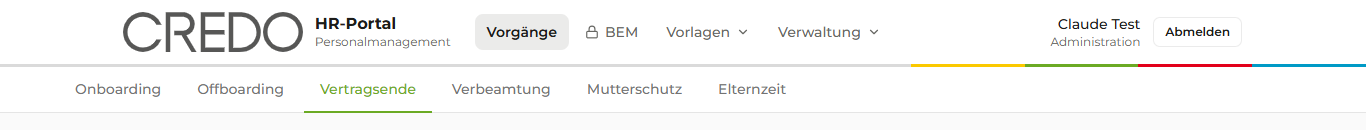
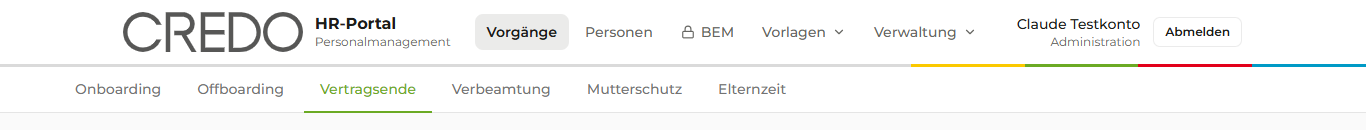
fix(ux): Abnahme nach dem Merge von main – Ueberschriften der Seite Personen, Logbuch, Stolpersteine unter Windows
- Seite „Personen“ (S0): nach dem Seitentitel als h1 folgte h3. „Zu prüfen“
  ist jetzt h2, die Gruppentitel in zu-pruefen.tsx h3; Klassen unveraendert.
- scripts/ux-abnahme-u1.js erwartet „Personen“ im Kopf der HR-Rollen; die
  vier Bilder u1-kopf-*.png sind neu erzeugt und zeigen den Punkt.
- Abnahme auf einer eigenen lokalen Datenbank: Pilot 213 Pruefungen, Kopf 26
  Pruefungen in Ordnung (Logbuch, Abschnitt 7, 19.10.2026).
- Logbuch: Einstieg 0.0 mit Stand 19.10.2026, Merge 8f4f064 in der Tabelle.
- CLAUDE.md: laufende Arbeit UX-Umbau und Navigation mit „Personen“.
- lokale-umgebung.md: CRLF-Arbeitskopie geprueft, openssl unter Git Bash
  endet auf CRLF, seed-check.js braucht die geladene .env, puppeteer-core
  fuer die Abnahme-Skripte.

npm run pruefen: 271 Suiten, 8619 Tests gruen.

Changed region(s): [[0.4305, 0.1846, 0.7072, 0.3077], [0.7379, 0.1231, 0.8609, 0.2462]]

diff --git a/scripts/ux-abnahme-u1.js b/scripts/ux-abnahme-u1.js
@@ -95,9 +95,9 @@ async function anmeldenUeberFormular(seite) {
   try {
     // ---------- 1. Je Rolle
     const SOLL = {
-      SUPER_ADMIN: { punkte: ["Vorgänge", "BEM", "Vorlagen", "Verwaltung"], rolle: "Administration", logo: "/vorgaenge", ort: "/vorgaenge/onboarding" },
-      HR_LEITUNG: { punkte: ["Vorgänge", "BEM", "Vorlagen", "Verwaltung"], rolle: "HR-Leitung", logo: "/vorgaenge", ort: "/vorgaenge/onboarding" },
-      HR_SACHBEARBEITER: { punkte: ["Vorgänge", "BEM", "Vorlagen"], rolle: "HR-Sachbearbeitung", logo: "/vorgaenge", ort: "/vorgaenge/onboarding" },
+      SUPER_ADMIN: { punkte: ["Vorgänge", "Personen", "BEM", "Vorlagen", "Verwaltung"], rolle: "Administration", logo: "/vorgaenge", ort: "/vorgaenge/onboarding" },
+      HR_LEITUNG: { punkte: ["Vorgänge", "Personen", "BEM", "Vorlagen", "Verwaltung"], rolle: "HR-Leitung", logo: "/vorgaenge", ort: "/vorgaenge/onboarding" },
+      HR_SACHBEARBEITER: { punkte: ["Vorgänge", "Personen", "BEM", "Vorlagen"], rolle: "HR-Sachbearbeitung", logo: "/vorgaenge", ort: "/vorgaenge/onboarding" },
       EINRICHTUNGSLEITUNG: { punkte: ["Vorgänge", "BEM"], rolle: "Einrichtungsleitung", logo: "/vorgaenge", ort: "/vorgaenge/onboarding" },
       VORGESETZTER: { punkte: ["Vorgänge", "BEM"], rolle: "Führungskraft", logo: "/vorgaenge", ort: "/vorgaenge/onboarding" },
       BEM_BEAUFTRAGTER: { punkte: ["BEM"], rolle: "BEM-Beauftragte:r", logo: "/bem", ort: "/bem" },

diff --git a/src/app/(portal)/personen/personen-content.tsx b/src/app/(portal)/personen/personen-content.tsx
@@ -242,9 +242,9 @@ export function PersonenContent({ user }: { user: User }) {
 
         {/* Zu prüfen */}
         <section className="mb-6 rounded-lg border border-border bg-card p-4" aria-labelledby="zu-pruefen">
-          <h3 id="zu-pruefen" className="mb-2 text-sm font-semibold text-foreground">
+          <h2 id="zu-pruefen" className="mb-2 text-sm font-semibold text-foreground">
             Zu prüfen
-          </h3>
+          </h2>
           {pruefung ? (
             <ZuPruefen pruefung={pruefung} />
           ) : pruefungFehler ? (

diff --git a/src/components/personen/zu-pruefen.tsx b/src/components/personen/zu-pruefen.tsx
@@ -70,7 +70,7 @@ export function Hinweiszeile({ pruefung }: { pruefung: PersonalstammPruefung }) 
 function Gruppe({ titel, children }: { titel: string; children: ReactNode }) {
   return (
     <div className="mt-4">
-      <h4 className="text-xs font-semibold uppercase tracking-wider text-muted-foreground">{titel}</h4>
+      <h3 className="text-xs font-semibold uppercase tracking-wider text-muted-foreground">{titel}</h3>
       <ul className="mt-2 divide-y divide-border rounded-lg border border-border">{children}</ul>
     </div>
   );

diff --git a/CLAUDE.md b/CLAUDE.md
@@ -10,7 +10,7 @@ Stand 18.10.2026 — mit jeder Übergabe nachführen.
 
 - **Self-Service (Mitarbeiterportal), Paket S0 „Personalstamm aus DokuBit“:** mit PR #5 in `main`, noch nicht deployt. Einstieg: `docs/historie/uebergabe-selfservice-s0-2026-10-17.md`, Abschnitt „Stand … — hier weitermachen“ (nächste Schritte in Reihenfolge, offene Entscheidungen).
 - **Deploy-Ablaufplan:** `docs/historie/deploy-selfservice-s0-2026-10.md` (Etappe 1 ruhend, Etappe 2 erst nach den Freigaben F1–F11). Er hängt am Code-Stand `0e1d8de` (Kachel-Fix der Verbeamtung, mit PR #6 am 18.10.2026 in `main`, Merge `82b58ce`). Bis Etappe 1 kommt danach nur noch Doku: `docs/`, dazu `CLAUDE.md` und `README.md` (beide nie im Image, `.dockerignore` schließt `*.md` aus). Abschnitt 3.2 des Plans prüft das auf dem Server. Was danach dauerhaft für jeden Deploy gilt: Abschnitt „Docker / Deployment“, „Feste Anker für Deploy und Rückfall“.
-- **UX-Umbau:** Zweig `ux-umbau` (letzter Commit 16.10.2026), nicht in `main`, Vorbedingung für S2 und S3 (Übergabe S0, Abschnitt 7). Einstieg nur auf dem Zweig: `docs/module/ux-ui/projekt-ux-umbau.md`. Die „Bausteine“ und „Muster des UX-Umbaus“, auf die diese Datei verweist, gibt es auf `main` noch nicht. Vor seinem Deploy `main` hineinmergen („Feste Anker für Deploy und Rückfall“).
+- **UX-Umbau:** Zweig `ux-umbau`, nicht in `main`, Vorbedingung für S2 und S3 (Übergabe S0, Abschnitt 7). Einstieg nur auf dem Zweig: `docs/module/ux-ui/projekt-ux-umbau.md`, Abschnitt 0.0. `main` ist seit dem 19.10.2026 hineingemergt (`8f4f064`, mit S0 und `0e1d8de`), Abnahme grün. Ziel: Pull Request samt Ablaufplan für den Deploy von U0 + U1 + Pilot + Mailtext — gemergt und deployt erst NACH Etappe 1 von S0 („Feste Anker für Deploy und Rückfall“). Die „Bausteine“ und „Muster des UX-Umbaus“ gibt es auf `main` erst mit diesem Merge.
 - **Übersicht aller Dokumente:** `docs/README.md`.
 - **Neuer Rechner:** `docs/entwicklung/lokale-umgebung.md` (ohne Werte; Geheimnisse und Passwörter erzeugt man auf dem Rechner selbst). Was es außerhalb von Git gibt: Übergabe S0, Abschnitt 8.6.
 
@@ -632,7 +632,7 @@ Das Portal bekommt Modul für Modul eine einheitliche Oberfläche. Stand, Protok
 - **Hell und Montserrat, überall gleich (E5, E7).** `color-scheme: only light` auf `:root` — `light` hält nur die Fensterleiste hell (Chrome/Edge ab 125), erst `only` verbietet das erzwungene Abdunkeln ganzer Seiten; dunkelt ein Browser auch bei heller Systemeinstellung zwangsweise ab, kann eine Seite das nicht abwenden. `--font-heading` ist Montserrat (ITC Avant Garde stand im Token, wurde aber nie mitgeliefert und von keinem Element benutzt — zu sehen war sie nie). Kein dunkler Modus.
 - **Anrede nach dem Ort des Textes (E6).** „du“ nur auf Seiten hinter der Anmeldung (`src/app/(portal)/`, ohne die Anmeldeseite); überall sonst „Sie“ — alle Link-Seiten, **alle** E-Mails (auch die an HR), PDFs, Briefe. Portal-Texte möglichst ohne Anrede („Vorgang stornieren?“). Bestehende Portal-Texte siezen noch; sie werden je Modul mit U4/U7 umgestellt, nicht vorher einzeln.
 - **Adressen (E4, U1): nur über `src/lib/adressen.ts`.** `/vorgaenge` (leitet auf die Onboarding-Liste), `/vorgaenge/<modul>` (Liste), `/vorgaenge/<modul>/<uuid>` (Vorgang), `/bem`, `/bem/<uuid>`, `/bem/statistik`; Modulnamen `onboarding`, `offboarding`, `vertragsende`, `verbeamtung`, `mutterschutz`, `elternzeit` — dauerhaft. Jeder Verweis (`href`, `router.push`, `redirect`, `portalLink` einer Mail) nimmt `vorgangPfad(modul, id, reiter?)`, `vorgangslistePfad(modul?)`, `bemPfad(id?)`; ein Wächter-Test (`adressen.test.ts`) lässt außerhalb dieser Datei keine Zeichenkette `/dashboard` zu (erlaubt: die Schnittstelle `/api/dashboard/…` und der Ordner `(portal)/dashboard/`). Alte Adressen übersetzt `alteAdresse(pfad, suche)`; die Middleware leitet damit als ERSTES und ohne Sitzung mit 308 um (`?tab=<modul>` an der alten Liste wird zum Pfad, alles andere hinter dem Fragezeichen bleibt). Pfade immer über `unter(pfad, wurzel)` vergleichen, nie mit `startsWith` allein (`/bem-vorlagen` beginnt mit `/bem`); `/bem/einwilligung/…` ist die ÖFFENTLICHE Einwilligungsseite und gehört nicht zum Portal (`istBemPortalPfad`). Die Adressen der Schnittstellen bleiben (englische Modulnamen, `/api/vorgaenge/contract-end/…`). **Dateien der Module liegen weiter unter `src/app/(portal)/dashboard/`** (ziehen mit U4 um); die Seiten selbst sind dünne `page.tsx` unter `(portal)/vorgaenge/<modul>/[id]/` und `(portal)/bem/` — unter `dashboard/` darf keine `page.tsx` mehr entstehen (Wächter), ein neues Modul braucht einen Eintrag in `VORGANGS_MODULE` und seinen Ordner.
-- **Kopf und Navigation (E3, U1): `src/lib/navigation.ts` + `src/components/rahmen/portal-kopf.tsx`.** Der Kopf hängt EINMAL in `src/app/(portal)/layout.tsx`; keine Seite bindet ihn ein (auch keine neue). Punkte, Adressen und Rollen stehen in der Tabelle `NAVIGATION` (heute Vorgänge · BEM · Vorlagen · Verwaltung, höchstens sechs; Start, Aufgaben, Personen kommen mit ihren Paketen). Der Kopf zeigt NUR, was die Rolle öffnen kann — `navigation.test.ts` ruft die Middleware für jeden sichtbaren Punkt jeder Rolle auf; wer in `NAVIGATION` eine Rolle ergänzt, ändert keine Berechtigung („Formulare“ sieht die Sachbearbeitung deshalb nicht, U1-F3). Genau EIN Punkt ist aktiv (`aktiverPunkt`: längster passender Adressanfang über `unter`). Rollennamen nur aus `rollenName()` (`ROLLEN_NAMEN`, client-sicher — nicht aus `permissions.ts`, das die Datenbank mitzieht); es gibt keine zweite Tabelle (Wächter-Test), auch die Benutzerverwaltung liest von dort. Der Kopf trägt keine `h1`: Jede Seite braucht ihre eigene. Das Logo führt auf `startAdresse(rolle)`. „Abmelden“ geht erst zur Anmeldeseite, wenn der Server die Sitzung beendet hat (sonst Fehlermeldung, Seite bleibt). Seiten hinter der Anmeldung, die den Kopf bewusst NICHT zeigen, liegen in `src/app/(portal-ohne-kopf)/` (heute nur die Fragebogen-Vorschau `/vorlagen/vorschau/<id>`). **Die Anmeldeseite liegt in `src/app/(anmeldung)/login/`**, nicht in `(portal)` — ein Layout zeichnet Next.js beim Seitenwechsel nicht neu; deshalb laden An- und Abmelden die Seite ganz neu (`seiteNeuLaden`, `src/lib/seite-laden.ts`), nie `router.push`. Die Seiten tragen bis zu ihrem Umbau `min-h-screen`; `.portal-inhalt .min-h-screen` in `globals.css` zieht die feste Höhe des Kopfs ab (`h-16` + 3 px Linie — wer die Höhe ändert, ändert beide Stellen).
+- **Kopf und Navigation (E3, U1): `src/lib/navigation.ts` + `src/components/rahmen/portal-kopf.tsx`.** Der Kopf hängt EINMAL in `src/app/(portal)/layout.tsx`; keine Seite bindet ihn ein (auch keine neue). Punkte, Adressen und Rollen stehen in der Tabelle `NAVIGATION` (heute Vorgänge · Personen · BEM · Vorlagen · Verwaltung, höchstens sechs; „Personen“ seit dem Merge von Self-Service S0, nur HR-Rollen; Start und Aufgaben kommen mit ihren Paketen). Der Kopf zeigt NUR, was die Rolle öffnen kann — `navigation.test.ts` ruft die Middleware für jeden sichtbaren Punkt jeder Rolle auf; wer in `NAVIGATION` eine Rolle ergänzt, ändert keine Berechtigung („Formulare“ sieht die Sachbearbeitung deshalb nicht, U1-F3). Genau EIN Punkt ist aktiv (`aktiverPunkt`: längster passender Adressanfang über `unter`). Rollennamen nur aus `rollenName()` (`ROLLEN_NAMEN`, client-sicher — nicht aus `permissions.ts`, das die Datenbank mitzieht); es gibt keine zweite Tabelle (Wächter-Test), auch die Benutzerverwaltung liest von dort. Der Kopf trägt keine `h1`: Jede Seite braucht ihre eigene. Das Logo führt auf `startAdresse(rolle)`. „Abmelden“ geht erst zur Anmeldeseite, wenn der Server die Sitzung beendet hat (sonst Fehlermeldung, Seite bleibt). Seiten hinter der Anmeldung, die den Kopf bewusst NICHT zeigen, liegen in `src/app/(portal-ohne-kopf)/` (heute nur die Fragebogen-Vorschau `/vorlagen/vorschau/<id>`). **Die Anmeldeseite liegt in `src/app/(anmeldung)/login/`**, nicht in `(portal)` — ein Layout zeichnet Next.js beim Seitenwechsel nicht neu; deshalb laden An- und Abmelden die Seite ganz neu (`seiteNeuLaden`, `src/lib/seite-laden.ts`), nie `router.push`. Die Seiten tragen bis zu ihrem Umbau `min-h-screen`; `.portal-inhalt .min-h-screen` in `globals.css` zieht die feste Höhe des Kopfs ab (`h-16` + 3 px Linie — wer die Höhe ändert, ändert beide Stellen).
 - **Prozess-Stand (Pilot Vertragsende, Tag 1): `src/lib/prozess/`.** `prozess-stand.ts` ist das Datenmodell der Prozessleiste (rein, ohne Uhr): Schritte mit `erledigt`/`aktiv`/`kommend`/`uebersprungen`, „Jetzt dran“ (Satz, bei wem, Unterzeile, Frist, Dringlichkeit), `ende`. Je Modul ein Adapter (`vertragsende.ts`), der aus dem Vorgang den Stand baut und **Schlüssel** von Handlungen liefert, keine Knöpfe – die Seite macht daraus Knöpfe, und nur mit Bearbeitungsrecht. Regeln des Adapters: Ein vergangener Schritt ist nur mit Beleg (Zeitstempel, verknüpftes Offboarding) „erledigt“, sonst „übersprungen“; keine Handlung steht zugleich in „Jetzt dran“ und im Menü; Tage zählen in Berliner Kalendertagen (am Tag des Vertragsendes „heute“ und kritisch – die Ampel `getContractEndCategory` meldet an diesem Tag schon „AUSSERHALB“); der Schritt „Vertrag“ hängt an `contractSignedReturnedAt`, nicht am Status `VERTRAG_ERSTELLT` (den setzt kein Code). **Wer dran ist, sagen Pille, aktiver Schritt und „Jetzt dran“ aus EINER Lage (`lageVon`), nie jeder für sich aus dem Status:** Der Status „Anfrage beim Vorgesetzten“ sagt nicht, ob die Führungskraft antworten kann – ging nie eine Anfrage hinaus oder ist ihr Link abgelaufen (fehlendes Ablaufdatum zählt als abgelaufen, wie in den Routen und im Erinnerungslauf), ist HR dran, der Schritt „Anfrage“ wieder aktiv und die Pille heißt „Anfrage offen“ bzw. „Link abgelaufen“ statt „Wartet auf Führungskraft“ (`vertragsendePille`, nicht der Katalog allein). Ging die Mail der Anfrage nicht hinaus (Status „Anfrage beim Vorgesetzten“ bzw. Alt „Entscheidung Übernahme“ MIT Adresse und erzeugtem Link – `supervisorTokenExpiresAt` gesetzt –, aber ohne `supervisorLinkSentAt`; so hinterlässt es `/supervisor-link` seit 10/2026, siehe `src/lib/contract-end-versand.ts`), ist das die Lage „nicht zugestellt“: HR ist dran, Pille „Anfrage nicht zugestellt“ (`info`, `VERTRAGSENDE_PILLE_NICHT_ZUGESTELLT`), „Jetzt dran“ „Anfrage wurde nicht zugestellt – erneut senden“ mit `anfrage-senden` (keine Rückfrage: einen gültigen Link hat die Führungskraft nicht), im Reiter Übersicht „Nicht zugestellt“ statt „Link gültig bis“ (`anfrageNichtZugestellt`, `ANFRAGE_NICHT_ZUGESTELLT_ZEILE`). Ohne Adresse oder ohne je erzeugten Link (Status und Adresse per Hand-PATCH – es wurde nie etwas versendet) bleibt es „Anfrage senden“; scheitert die ERSTE Anfrage, steht der Vorgang wieder auf „Angelegt“ und zeigt bewusst keinen eigenen Hinweis (die Route stellt den Stand davor wieder her, wie in der alten Ansicht). Ein Test hält das über alle Lagen: Ton `wait` genau dann, wenn die Führungskraft dran ist; der aktive Schritt liegt bei dem, der dran ist. **Was der Adapter anbietet, muss die Route annehmen:** Die Statuslisten der vier HR-Routen liegen in `src/lib/contract-end-status.ts` (`CONTRACT_END_UEBERGAENGE` für den PATCH, `CONTRACT_END_OFFBOARDING_AUS` für `/nicht-uebernehmen`, `CONTRACT_END_ANFRAGE_GESPERRT` für `/supervisor-link`, `CONTRACT_END_ANFRAGE_OFFEN` für `/reminder`) – die Routen und `prozess-vertragsende.test.ts` lesen DIESELBEN Listen; eine Statusliste gehört nie wieder in eine Routen-Datei. Der Test prüft jede angebotene Handlung in jeder Lage (auch solchen, die nur ein Handeingriff erzeugt: Offboarding an einem Vorgang im Status „Angelegt“) und rechnet jede Lage nur einmal (`PROBEN`). Was die Routen selbst tun, steht ausgeschrieben in ihren Tests (`contract-end-supervisor-link.test.ts`, `-nicht-uebernehmen.test.ts`, `-reminder-manual.test.ts`). Fachstatus → Text und Ton der Statuspille stehen als Katalog im Adapter (`VERTRAGSENDE_PILLE`: `wait` = wartet auf jemand anderen, `info` = HR ist dran); die Töne kommen als Typ aus dem Baustein (`StatusTon`), nicht aus einer zweiten Liste. `VertragsendeStand.supervisorTokenExpiresAt` ist Pflichtfeld – wer den Vorgang mit schmalerer Auswahl lädt (Listen), lädt es mit.
 - **Prozessleiste und Reiter (Pilot Vertragsende, Tag 2).** Beide stehen auf `/ui-muster` (eigene Muster-Dateien `prozessleiste-muster.tsx`, `reiter-muster.tsx`; die Lagen der Leiste kommen dort aus dem echten Vertragsende-Adapter mit festem `JETZT`). **`Prozessleiste`** (`prozessleiste.tsx`): zeichnet einen `ProzessStand`, kennt kein Modul und ruft nichts; `aktion`/`nebenAktion` bekommt sie als fertige Knöpfe (die Seite gibt sie nur mit Bearbeitungsrecht), gezeichnet werden sie nur MIT `jetztDran`. Schritte als `ol` mit ausdrücklichem `role="list"` (Tailwind nimmt die Listenzeichen, Safari/VoiceOver sagt die Liste sonst nicht an); der Punkt ist Zierde, jeder Zustand hat ein Wort für Screenreader (`SCHRITT_WORT`; in einem beendeten Ablauf „nicht erreicht“ statt „kommt noch“) und ist ohne Farbe erkennbar (Haken · Hof und fetter Titel · Nummer · gestrichelter Rand und durchgestrichener Titel). Der Rand des übersprungenen Punkts TRÄGT Bedeutung (`ink-2`, 3:1), der des kommenden ist Zierde (`ink-3`). Ein Schritt mit `reiter` ist nur mit `onReiter` ein Knopf. Dringlichkeit steht als `Statuspille` mit Wort („Kritisch“, „Frist naht“) neben der Frist; wer dran ist, über `BEI_NAME`, das Ende über `ENDE_NAME` (beide in `prozess-stand.ts` — der Baustein führt keine Namen). Unter 640 px: Punkte in einer Zeile, Titel/Unterzeile/anderer Weg `max-sm:sr-only` (nie `hidden`), darunter `schrittKurzform`. Kein `sticky` (P-F6). **`Reiter`/`ReiterInhalt`** (`reiter.tsx`, Radix Tabs — das Gegenstück zum `Segment`): gesteuert über `wert`/`onWechsel`, liest nichts aus der Adresse; ein unbekannter `wert` fällt auf den ersten Reiter; nur der Inhalt des gewählten Reiters steht im DOM (er lädt mit dem Wechsel, Eingaben darin gehen beim Wegwechseln verloren). Drei Dinge macht der Baustein ANDERS als Radix, jeweils mit Test: `onWechsel` läuft je Klick genau einmal (Radix meldet bei `mousedown` und beim `focus` danach — mit dem Reiter in der Adresse wären das zwei Navigationen); der Halt der Tab-Taste liegt immer auf dem GEWÄHLTEN Reiter (`tabIndex`, sonst schaltet Umschalt+Tab nach einem Wechsel von außen zurück); Bild-auf/Bild-ab rollen die Seite, statt zum ersten/letzten Reiter zu springen. Der Strich des gewählten Reiters ist ein echter Rand, die übrigen tragen gar keinen (Windows-Kontrastmodus); die Leiste rollt am Handy waagerecht und holt den gewählten Reiter in den sichtbaren Teil. Radix wählt bei `mousedown`, nicht bei `click` — Tests spielen die ganze Folge einer Maustaste.
 - **Hinweis und Textfeld (Pilot Vertragsende, Tag 3, vor dem Prototyp-Tag vorgezogen).** Beide stehen auf `/ui-muster` (`hinweis-muster.tsx`, `textfeld-muster.tsx`), Regeln in `ui-hinweis-textfeld.test.tsx`, Farben in `ui-kontrast.test.ts`. **`Hinweis`** (`hinweis.tsx`): ein Kasten für EINE Aussage über der Arbeit, `ton` `critical`/`wait`/`info` (kein `ok` — Erledigtes braucht keinen Kasten), `titel` ist Pflicht (leer → zeichnet nichts), `children` ein, zwei Sätze, höchstens ein Knopf (`aktion`). Jeder Ton hat ein eigenes Standardsymbol (Form, nicht nur Farbe; `symbol` ersetzt es), Emojis nie. Angesagt wird nur, was NACH dem Laden erscheint: `ansagen` macht einen `critical`-Hinweis zu `role="alert"`; sonst ist er ein Bereich mit Überschrift (`section` + `aria-labelledby`, Vorgabe `h2`, tiefer über `ebene`) — die Seite entscheidet das, der Baustein rät es nicht. Text in `ink`, nicht `ink-2` (auf `critical-soft` über dem Seitengrund nur 4,49:1); durchsichtiger Rand für den Kontrastmodus. **`Textfeld`** (`textfeld.tsx`): sichtbare Beschriftung ist Pflicht (nie nur ein Platzhalter), nur `text`/`email`/`tel`/`url` (Datum und Auswahl kommen mit ihrem ersten Aufrufer). `hilfe` und `fehler` hängen über `aria-describedby` am Feld (erst Hilfe, dann Fehler, dann eine eigene `aria-describedby` des Aufrufers); ein Fehler setzt `aria-invalid`, färbt den Rand `critical` und steht als Text darunter, ein leerer Fehler ist keiner. Den Fokus auf einen neuen Fehler legt der Dialog, nicht das Feld. Rand `ink-2` (3:1 für Bedienelemente; `hairline` wäre als Grenze nicht zu sehen), Platzhalter `ink-2`. `className` geht an die Hülle, alles andere (`id`, `value`, `ref`, `data-autofokus` …) an das Feld. **`Textverweis`** (`textverweis.tsx`, 07.10.2026): ein Verweis im laufenden Text (Satz, Dialog, schmale Zeile) — ein Verweis FÜHRT woandershin, ein Knopf HANDELT; intern (`href` mit genau einem führenden „/“) über `next/link`, sonst (`mailto:`, `https:`, `//host`) ein `<a>`; unterstrichen in `ink`, Fokusring der Bausteine, keine eigene Farbtabelle. Regeln in `ui-textverweis.test.tsx`. Ein Verweis, der wie ein Knopf aussehen soll, bleibt `<Button asChild><Link …/></Button>`.

diff --git a/docs/module/ux-ui/projekt-ux-umbau.md b/docs/module/ux-ui/projekt-ux-umbau.md
@@ -4,11 +4,22 @@
 Abweichungen vom Plan und ein Protokoll je Arbeitstag. Sie wird mit **jedem** Commit auf
 `ux-umbau` fortgeschrieben.
 
-Letzte Änderung: 15.10.2026 (Prototyp-Tag gelaufen, DSB einverstanden, `main` gemergt – **0.0 zuerst lesen**; davor am selben Tag: Mailtext im Protokoll mit zwei Durchsichten, Handbuch, DSB-Papier, siehe Abschnitt 7)
+Letzte Änderung: 19.10.2026 (`main` mit Self-Service S0 und Kachel-Fix gemergt, Abnahme grün – **0.0 zuerst lesen**; Protokoll Abschnitt 7)
 
-## 0. Übergabe (Stand 15.10.2026)
+## 0. Übergabe (Stand 19.10.2026)
 
-### 0.0 Hier anfangen (15.10.2026)
+### 0.0 Hier anfangen (19.10.2026)
+
+**Stand 19.10.2026:** `main` bis `5fc31bd` ist gemergt (`8f4f064`, mit Self-Service S0 und dem
+Kachel-Fix `0e1d8de`); Prüfung, Build, Pilot-Abnahme (213) und Kopf-Abnahme (26) sind grün
+(Protokoll Abschnitt 7, „19.10.2026“). **Ziel der Woche** (Projektverantwortlicher): fertig bis
+zum Pull Request samt eigenem Ablaufplan für den Deploy. **Reihenfolge: erst Etappe 1 von S0,
+dann dieser Deploy** — vorher nicht nach `main` mergen, sonst hält der S0-Ablaufplan in 3.2 an.
+Nächste Schritte: Ablaufplan für den Deploy von U0 + U1 + Pilot + Mailtext schreiben
+(Ausgangsstand = Server nach Etappe 1, Anker `a43aa25` und `0e1d8de`, Schema-Delta +1 Tabelle
+`email_log_texte`), gegenprüfen, pushen und den Pull Request öffnen (erst nach Freigabe).
+
+### 0.0a Stand 15.10.2026
 
 Die Abschnitte 0.1 bis 0.7 stammen vom 08./12.10.2026 und sind in Teilen überholt; was neuer
 ist, steht hier.
@@ -1942,6 +1953,44 @@ erscheinen: Ein Kommentar behauptete ungeprüft „die Verbeamtung hat keine Nic
 (entfernt), und `civil-service-detail.test.ts` sicherte vormittags `200` für Nicht-HR zu, also
 das Gegenteil der späteren Entscheidung (umgeschrieben; der Dateikopf erzählt beide Schritte).
 
+### 19.10.2026 – Merge von `main` (Self-Service S0, Kachel-Fix), Abnahme auf dem Windows-Rechner
+
+**Ziel des Projektverantwortlichen:** den Pilot diese Woche fertig machen bis zum Pull Request
+samt Ablaufplan; gemergt und deployt wird erst NACH Etappe 1 von S0 (Ablaufplan
+`docs/historie/deploy-selfservice-s0-2026-10.md`, Reihenfolge „erst S0, dann UX“). Bis Etappe 1
+darf auf `main` nur Doku landen (dort 3.2).
+
+**Neuer Klon.** Gearbeitet wird in `C:\Users\driesen.FES\Projekte\HR_Portal_CREDO` (außerhalb von
+OneDrive). Der Ordner `HR_Portal_CREDO-main` in OneDrive ist nur ein ZIP-Stand ohne `.git`.
+
+**Merge `8f4f064`** (`main` bis `5fc31bd`): drei Konflikte — `CLAUDE.md` (beide Zeilen der
+Befehle), `docs/README.md` (der Zweig hatte die Datei mit CRLF eingecheckt, deshalb Konflikt über
+die ganze Datei; aufgelöst als Fassung von `main` plus Abschnitt UX-Umbau und Zeile zu den
+Zugriffs-Korrekturen) und `src/components/portal-header.tsx` (bleibt gelöscht). Nachgezogen:
+„Personen“ in `NAVIGATION` (nur HR-Rollen, zwischen Vorgänge und BEM — Reihenfolge nach E3), die
+S0-Seite ohne `PortalHeader`, Titel als `h1`, Weiterleitung über `vorgangslistePfad()`. Ein Test
+von S0 (`personalstamm-n8n-stapel.test.ts`) suchte „```js\n“ und scheiterte an der
+CRLF-Arbeitskopie unter Windows — er normalisiert jetzt. `npm run pruefen` 271 Suiten / 8619
+Tests, `npm run build` grün. Beide Anker (`a43aa25`, `0e1d8de`) sind enthalten.
+
+**Abnahme** gegen eine eigene lokale Datenbank `credo-hr-db-ux` (Port 5436, Werte neu erzeugt;
+die vorhandene `credo-hr-db-dev` blieb unberührt): Seite „Personen“ mit den Testdaten aus
+Übergabe S0 8.3 (5 angelegt, 2 übersprungen, 2 Zweifelsfälle, 2 Fehler — wie dokumentiert),
+genau ein Kopf, „Personen“ aktiv. Befund dabei: nach dem `h1` folgte `h3` — „Zu prüfen“ ist
+jetzt `h2`, die Gruppentitel in `zu-pruefen.tsx` `h3` (Klassen unverändert). Pilot:
+`scripts/ux-abnahme-pilot.js` **213 Prüfungen in Ordnung**, Kopf: `scripts/ux-abnahme-u1.js`
+**26 in Ordnung** (Erwartung der Punkte um „Personen“ ergänzt; die vier Bilder `u1-kopf-*.png`
+sind neu und zeigen den Punkt). Ein Lauf von `ux-abnahme-u1.js` brach einmal mit „Cannot read
+properties of null (reading 'scrollWidth')“ ab (Zeile 195 fragt den Kopf ab, bevor er da ist) —
+Zeitproblem des Skripts, beim nächsten Lauf grün.
+
+**Zwei Fallen auf Windows** (auch in `docs/entwicklung/lokale-umgebung.md`, Abschnitt 9):
+`openssl rand` unter Git Bash endet auf CRLF — Werte, die man mit `$(openssl …)` in die `.env`
+schreibt, tragen ein unsichtbares `\r`; die Shell schneidet es beim Einlesen ab, Next.js und
+Prisma nicht (Folge hier: Seed-Passwort und Webhook-Geheimnis passten nicht). Und
+`puppeteer-core` steht nicht in `package.json`: für die Abnahme-Skripte mit
+`npm install --no-save puppeteer-core@24`.
+
 ## 8. Branches und Commits
 
 | Branch | Commit | Inhalt |
@@ -2007,6 +2056,7 @@ das Gegenteil der späteren Entscheidung (umgeschrieben; der Dateikopf erzählt 
 
 | `main` | `c8b9c6e`, `1cffbba`, `b474d8a`, `98d0697` | Drei Zugriffs-Korrekturen plus die n8n-Berichtigung (nicht Umbau, siehe Abschnitt 7) |
 | `ux-umbau` | `68df3f9`, `4f2901b`, `1b58cf1`, `6897b28` | Die Merges von `main` dazu |
+| `ux-umbau` | `8f4f064` | Merge von `main` bis `5fc31bd` (Self-Service S0 `a43aa25`, Kachel-Fix `0e1d8de`, Doku vom 17./18.10.): drei Konflikte, „Personen“ in der Navigation, S0-Seite ohne alten Kopf |
 
 Kennungen werden jeweils im nächsten Commit nachgetragen (ein Commit kann seine eigene nicht
 enthalten); `git log --oneline main..ux-umbau` zeigt den aktuellen Stand.

diff --git a/docs/entwicklung/lokale-umgebung.md b/docs/entwicklung/lokale-umgebung.md
@@ -209,5 +209,21 @@ jeweiligen Rechners und wird nicht übertragen.
   OneDrive scheiterte der Build mit `EINVAL … readlink`). Abhilfe: Dev-Server stoppen, `.next`
   löschen (nur Zwischenspeicher), neu bauen.
 - **Zeilenenden unter Windows:** `.gitattributes` legt nur Shell-Skripte und `Dockerfile` auf LF
-  fest. Ob die Tests mit einer CRLF-Arbeitskopie grün bleiben, ist nicht geprüft; Abnahme ist
-  Abschnitt 3.
+  fest. Mit `core.autocrlf=true` (Vorgabe von Git für Windows) steht der Arbeitsbaum in CRLF; am
+  19.10.2026 auf dem Zweig `ux-umbau` geprüft: `npm run pruefen` ist so grün (271 Suiten), nachdem
+  `personalstamm-n8n-stapel.test.ts` die Anleitung vor dem Vergleich normalisiert. Ins Repository
+  kommt trotzdem nur LF (`git grep --cached -I -l -P '\r$'` muss leer sein).
+- **`openssl` unter Git Bash endet auf CRLF.** Wer Werte mit `$(openssl rand …)` in die `.env`
+  schreibt, schreibt ein unsichtbares `\r` mit. Die Shell schneidet es beim Einlesen
+  (`set -a; . ./.env`) ab, Next.js und Prisma lesen es mit — dann passt etwa das Passwort des
+  Seeds oder das Geheimnis des Webhooks nicht, obwohl beide Seiten „gleich“ aussehen. Abhilfe:
+  `$(openssl rand -hex 32 | tr -d '\r\n')`; eine schon geschriebene `.env` mit `sed -i 's/\r//g' .env`
+  bereinigen (steckt das `\r` auch im Passwort des Datenbank-Containers, dort mit `ALTER USER`
+  angleichen).
+- **`seed-check.js` liest die `.env` nicht selbst:** mit `node` direkt aufgerufen fehlt
+  `DATABASE_URL`. Vorher `set -a; . ./.env; set +a`.
+- **Abnahme-Skripte** (`scripts/ux-abnahme*.js`) brauchen `puppeteer-core`, das nicht in
+  `package.json` steht: `npm install --no-save puppeteer-core@24` (Paketdateien bleiben
+  unverändert), dazu Chrome unter `C:/Program Files/Google/Chrome/Application/chrome.exe` und ein
+  Testkonto auf `@beispiel.invalid` (mit Rolle SUPER_ADMIN anlegen, Passwort über
+  `scripts/dev-passwort-neu.js`).
